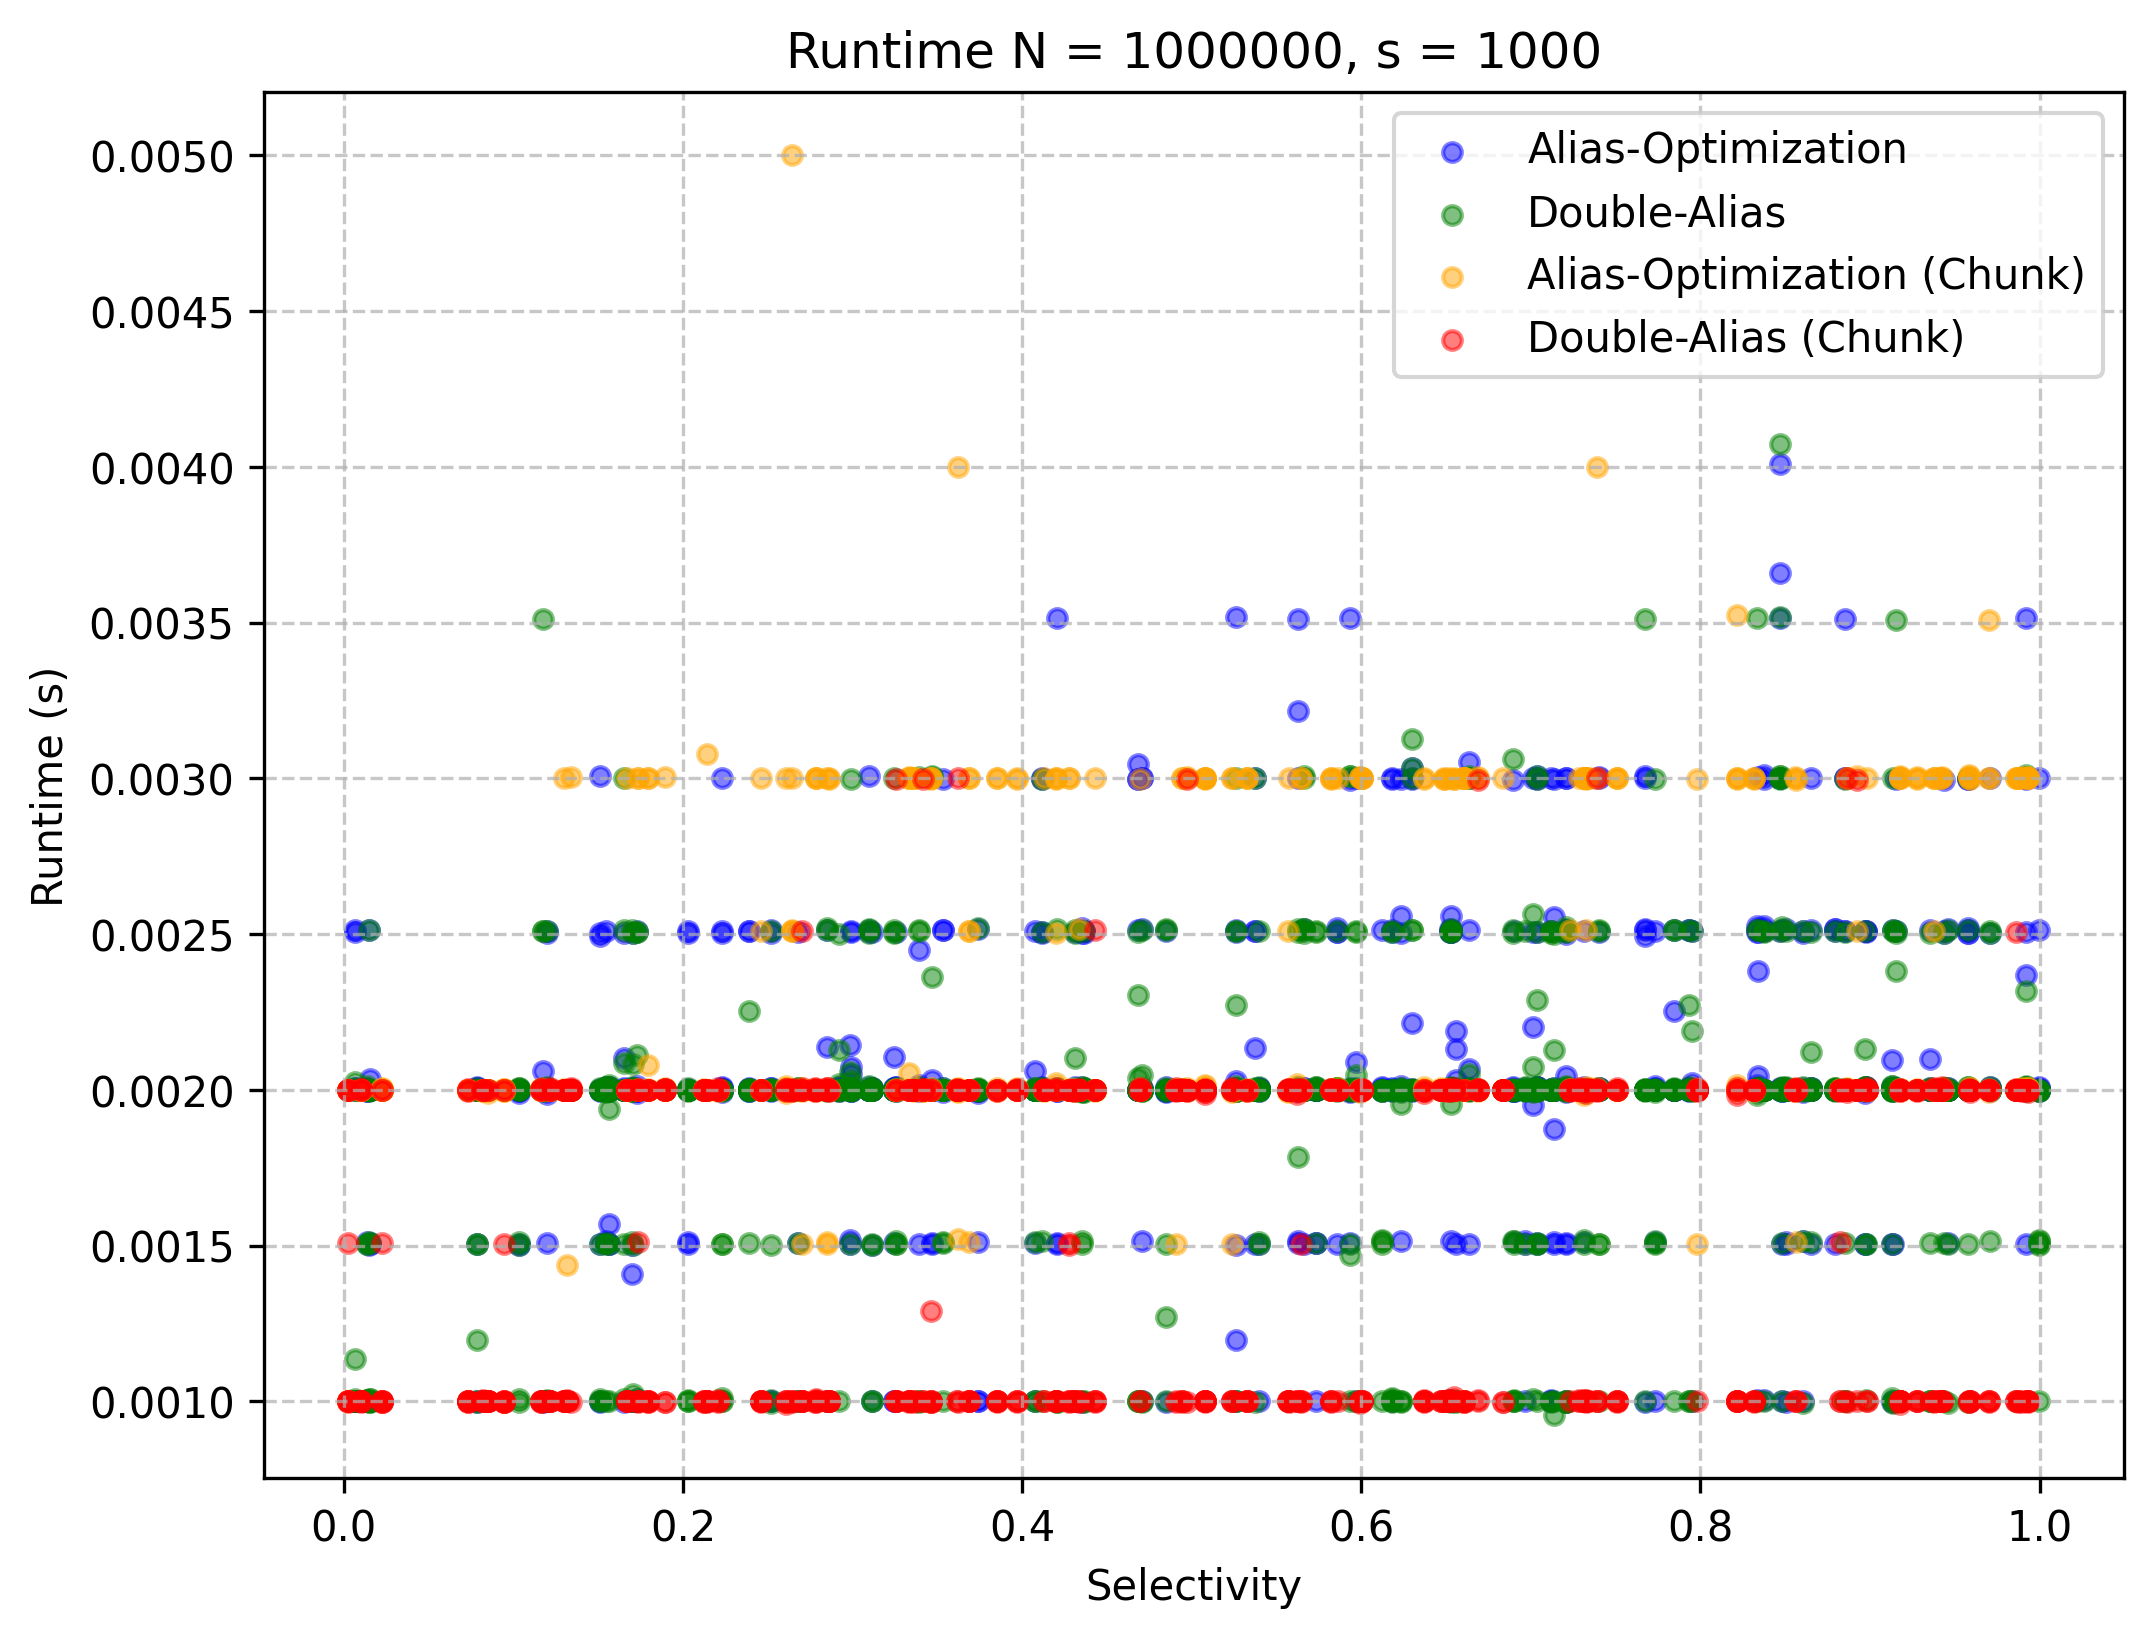
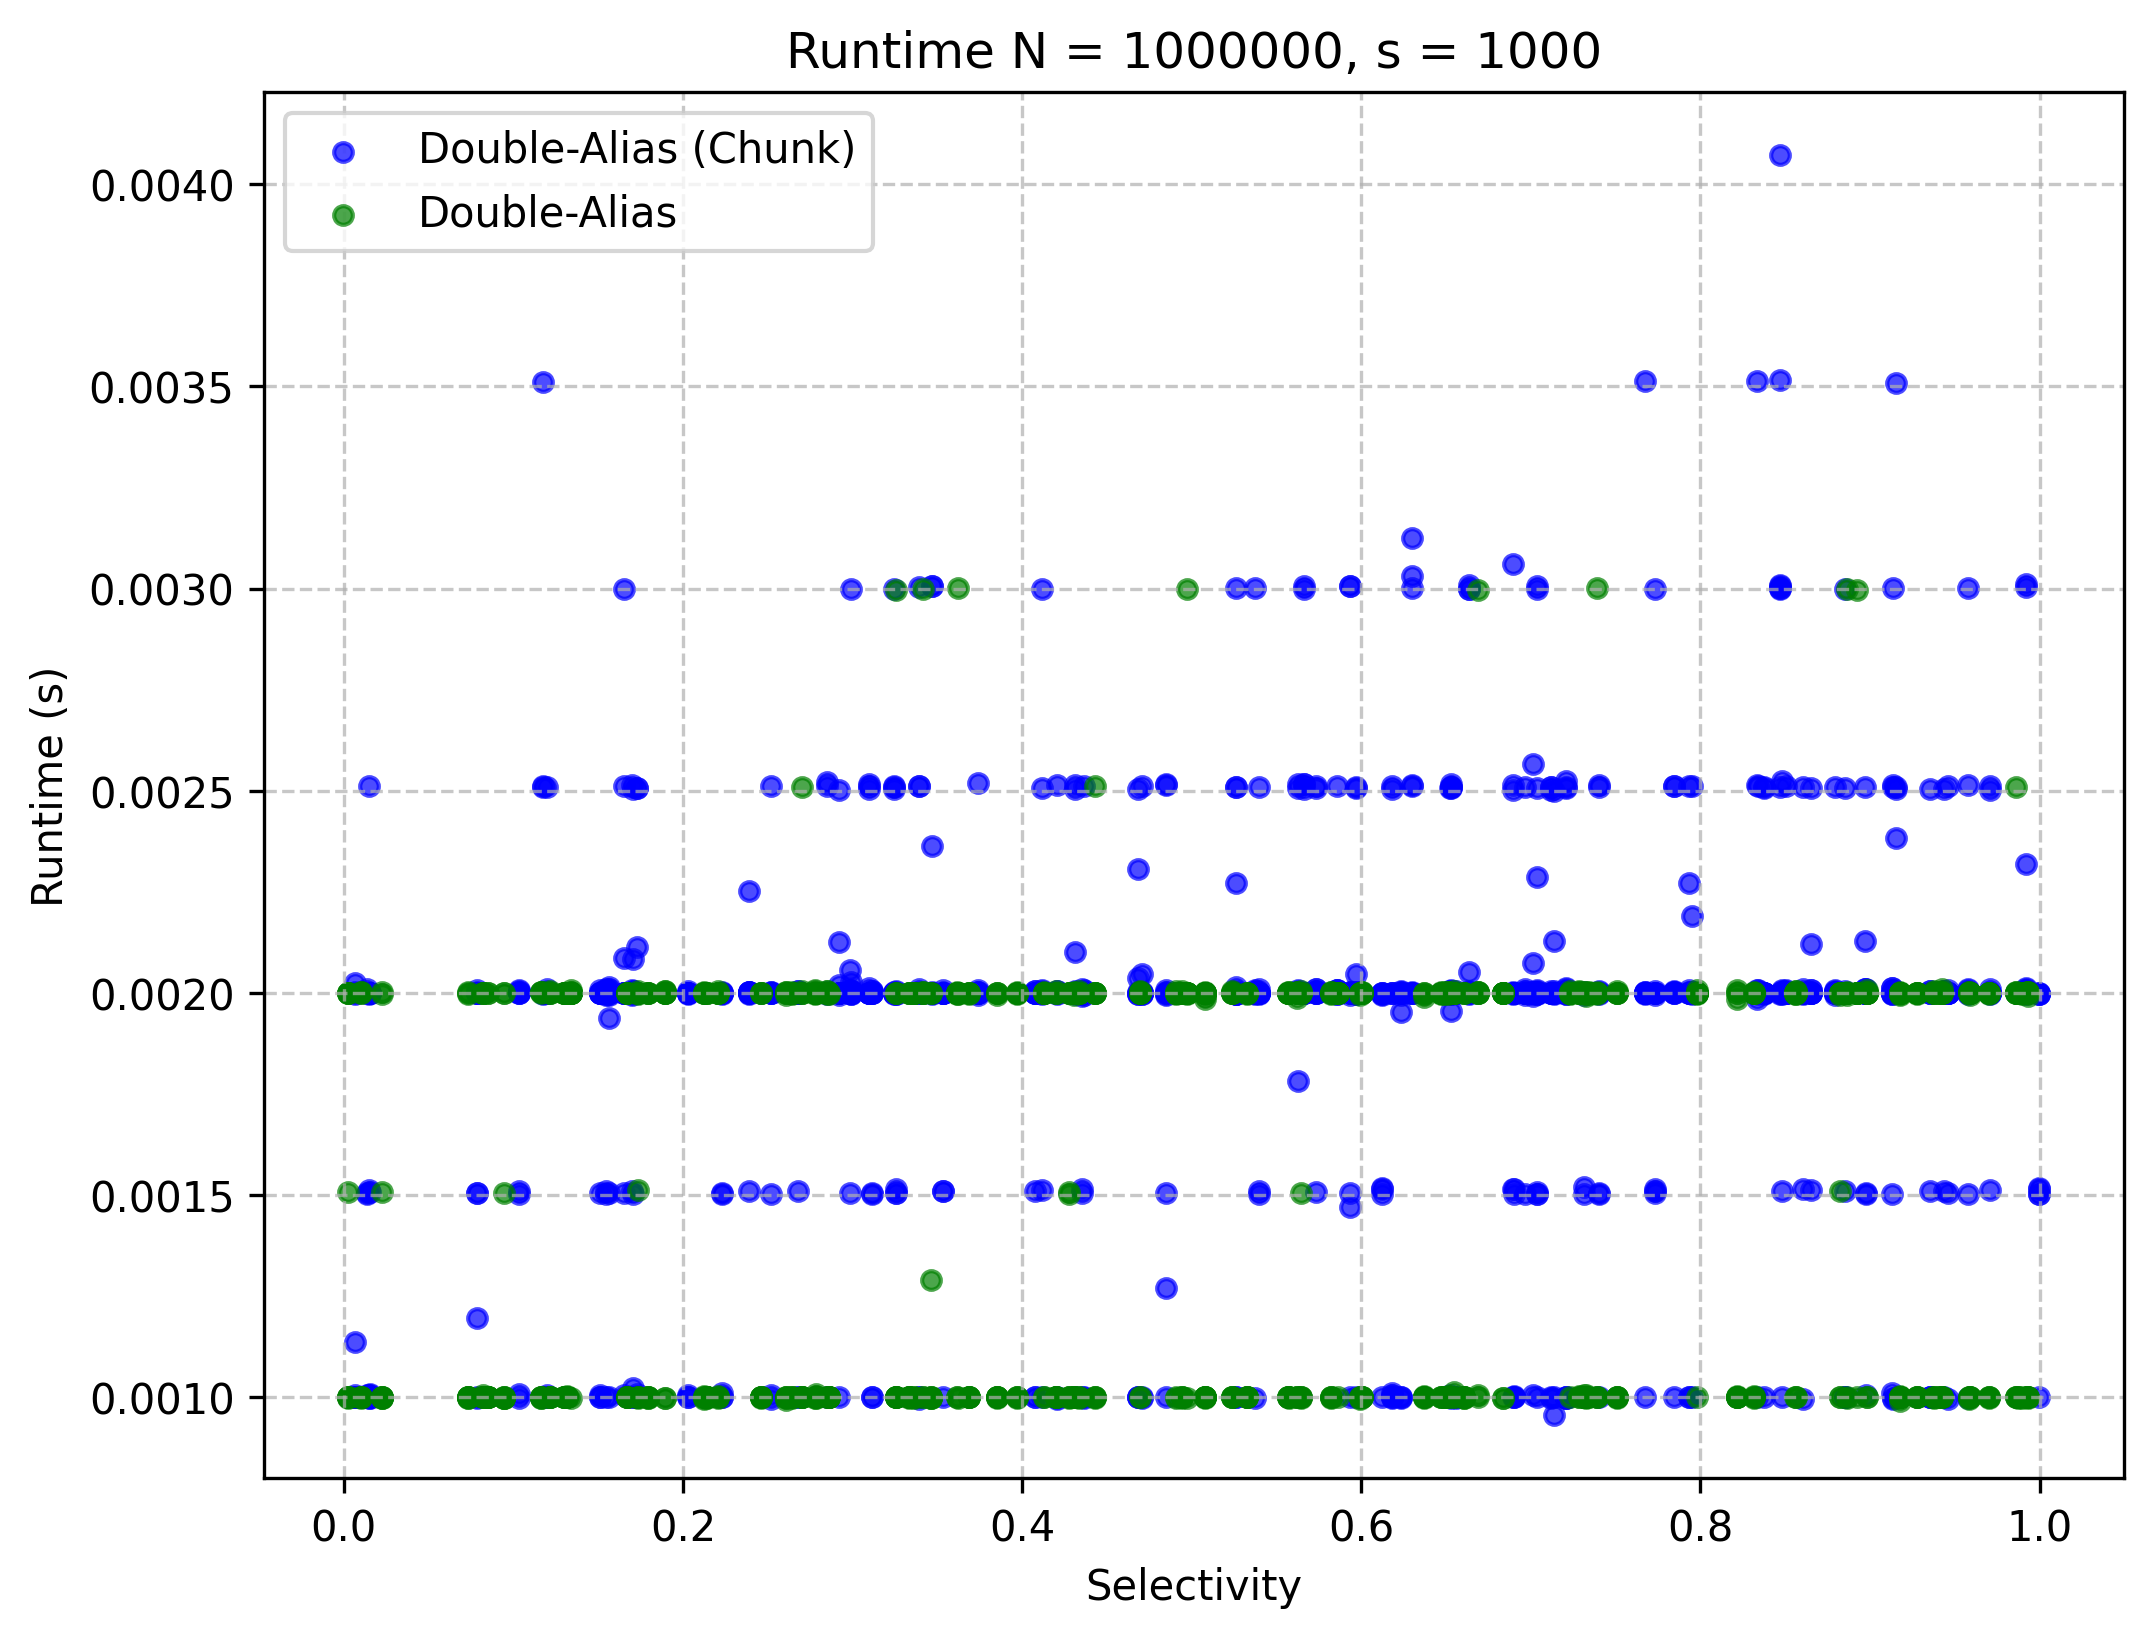
Update from WIN

diff --git a/Chunk/data/plot_IQS.py b/Chunk/data/plot_IQS.py
@@ -57,11 +57,33 @@ def plot_IQS_4lines(df_chunk,df_normal,n,s):
 
     # 绘制散点图
     plt.figure(figsize=(8, 6))
-    for i, col in enumerate(df_chunk.columns[1:]):  # 遍历第二列到第四列
-        plt.scatter(df_chunk[df_chunk.columns[0]], df_chunk[col], color=colors[i], label=labels[i + 2], alpha=0.5, s = 20)
+    for i, col in enumerate(df_chunk.columns[1:2]):  # 遍历第二列到第四列
+        plt.scatter(df_chunk[df_chunk.columns[0]], df_chunk[col], color='blue', label=labels[0], alpha=0.7, s = 20)
 
-    for i, col in enumerate(df_normal.columns[2:]):  # 遍历第二列到第四列
-        plt.scatter(df_normal[df_normal.columns[0]], df_normal[col], color=colors[i + 2], label=labels[i], alpha=0.5, s = 20)
+    for i, col in enumerate(df_normal.columns[2:3]):  # 遍历第二列到第四列
+        plt.scatter(df_normal[df_normal.columns[0]], df_normal[col], color='green', label=labels[2], alpha=0.7, s = 20)
+
+    # 添加图例、标题和坐标轴标签
+    plt.legend()
+    plt.title(f"Runtime N = {n}, s = {s}")
+    plt.xlabel("Selectivity")
+    plt.ylabel("Runtime (s)")
+
+    # 显示网格
+    plt.grid(True, linestyle='--', alpha=0.7)
+
+    # 显示图形
+    plt.savefig(f"images/N_{n}_s_{s}_2lines.png", dpi=300, bbox_inches="tight")  # 保存为 PNG 文件
+    plt.show()
+
+    # 绘制散点图
+    plt.figure(figsize=(8, 6))
+    for i, col in enumerate(df_chunk.columns[2:3]):  # 遍历第二列到第四列
+        plt.scatter(df_chunk[df_chunk.columns[0]], df_chunk[col], color='blue', label=labels[1], alpha=0.7, s=20)
+
+    for i, col in enumerate(df_normal.columns[3:4]):  # 遍历第二列到第四列
+        plt.scatter(df_normal[df_normal.columns[0]], df_normal[col], color='green', label=labels[3], alpha=0.7,
+                    s=20)
 
     # 添加图例、标题和坐标轴标签
     plt.legend()

diff --git a/Result/plot_memory.py b/Result/plot_memory.py
@@ -18,12 +18,12 @@ x_a, y_a = read_file('chunk_result_100.txt')
 x_b, y_b = read_file('normal_result.txt')
 plt.figure(figsize=(10,5))
 # 绘制折线图
-plt.plot(x_a, y_a, label='Chunk', marker='o')
-plt.plot(x_b, y_b, label='Normal', marker='s')
+plt.plot(x_a, y_a, label='Chunk', marker='o',color = 'orange')
+plt.plot(x_b, y_b, label='Normal', marker='s',color = 'blue')
 
 
 # 添加标题和标签
-plt.title('Memory Comparison of Chunk and Normal')
+plt.title('Memory Comparison of Chunk and Normal Structure')
 plt.xlabel('Data Set Size')
 plt.ylabel('Memory Overhead (GB)')
 plt.grid(True)

diff --git a/Chunk/Chunk_Visualization.py b/Chunk/Chunk_Visualization.py
@@ -54,7 +54,7 @@ if __name__ == '__main__':
     times_dict = defaultdict(int)
     leaf_count = 80
     chunk_size = 10
-    x = 1
+    x = 5
     y = 55
     k = 100
     val_list = [x for x in range(1,leaf_count+1)]
